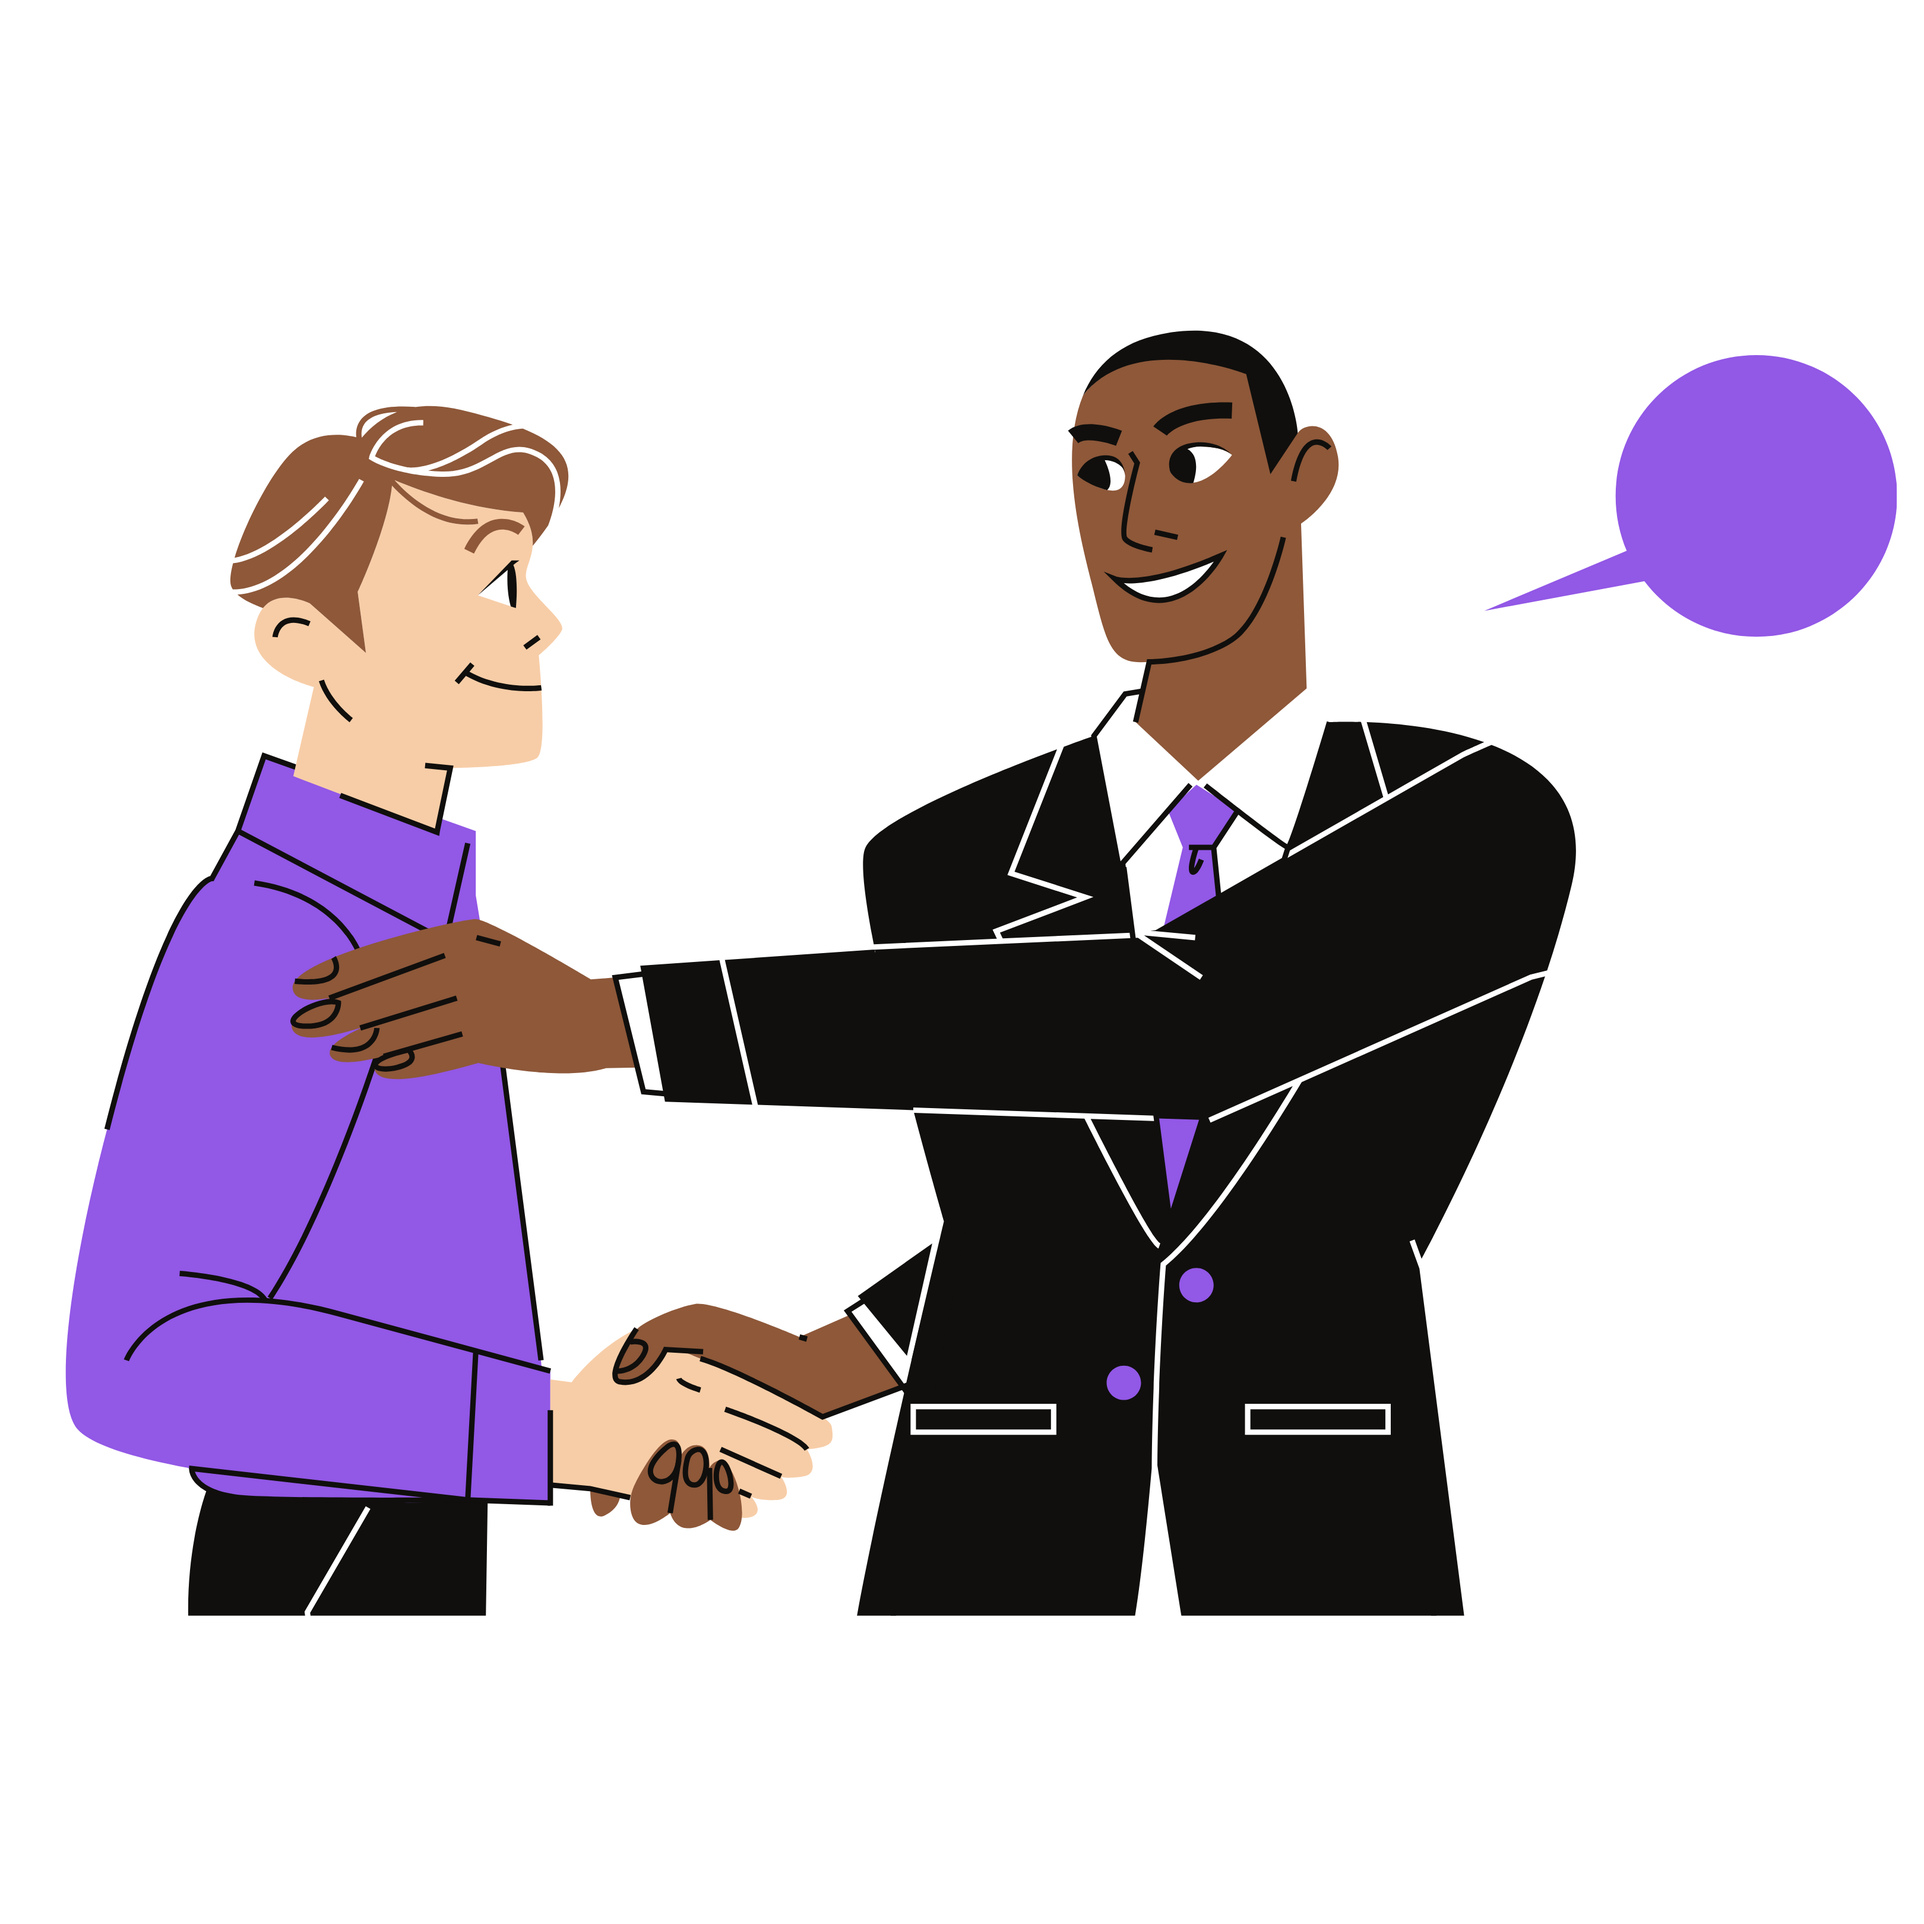
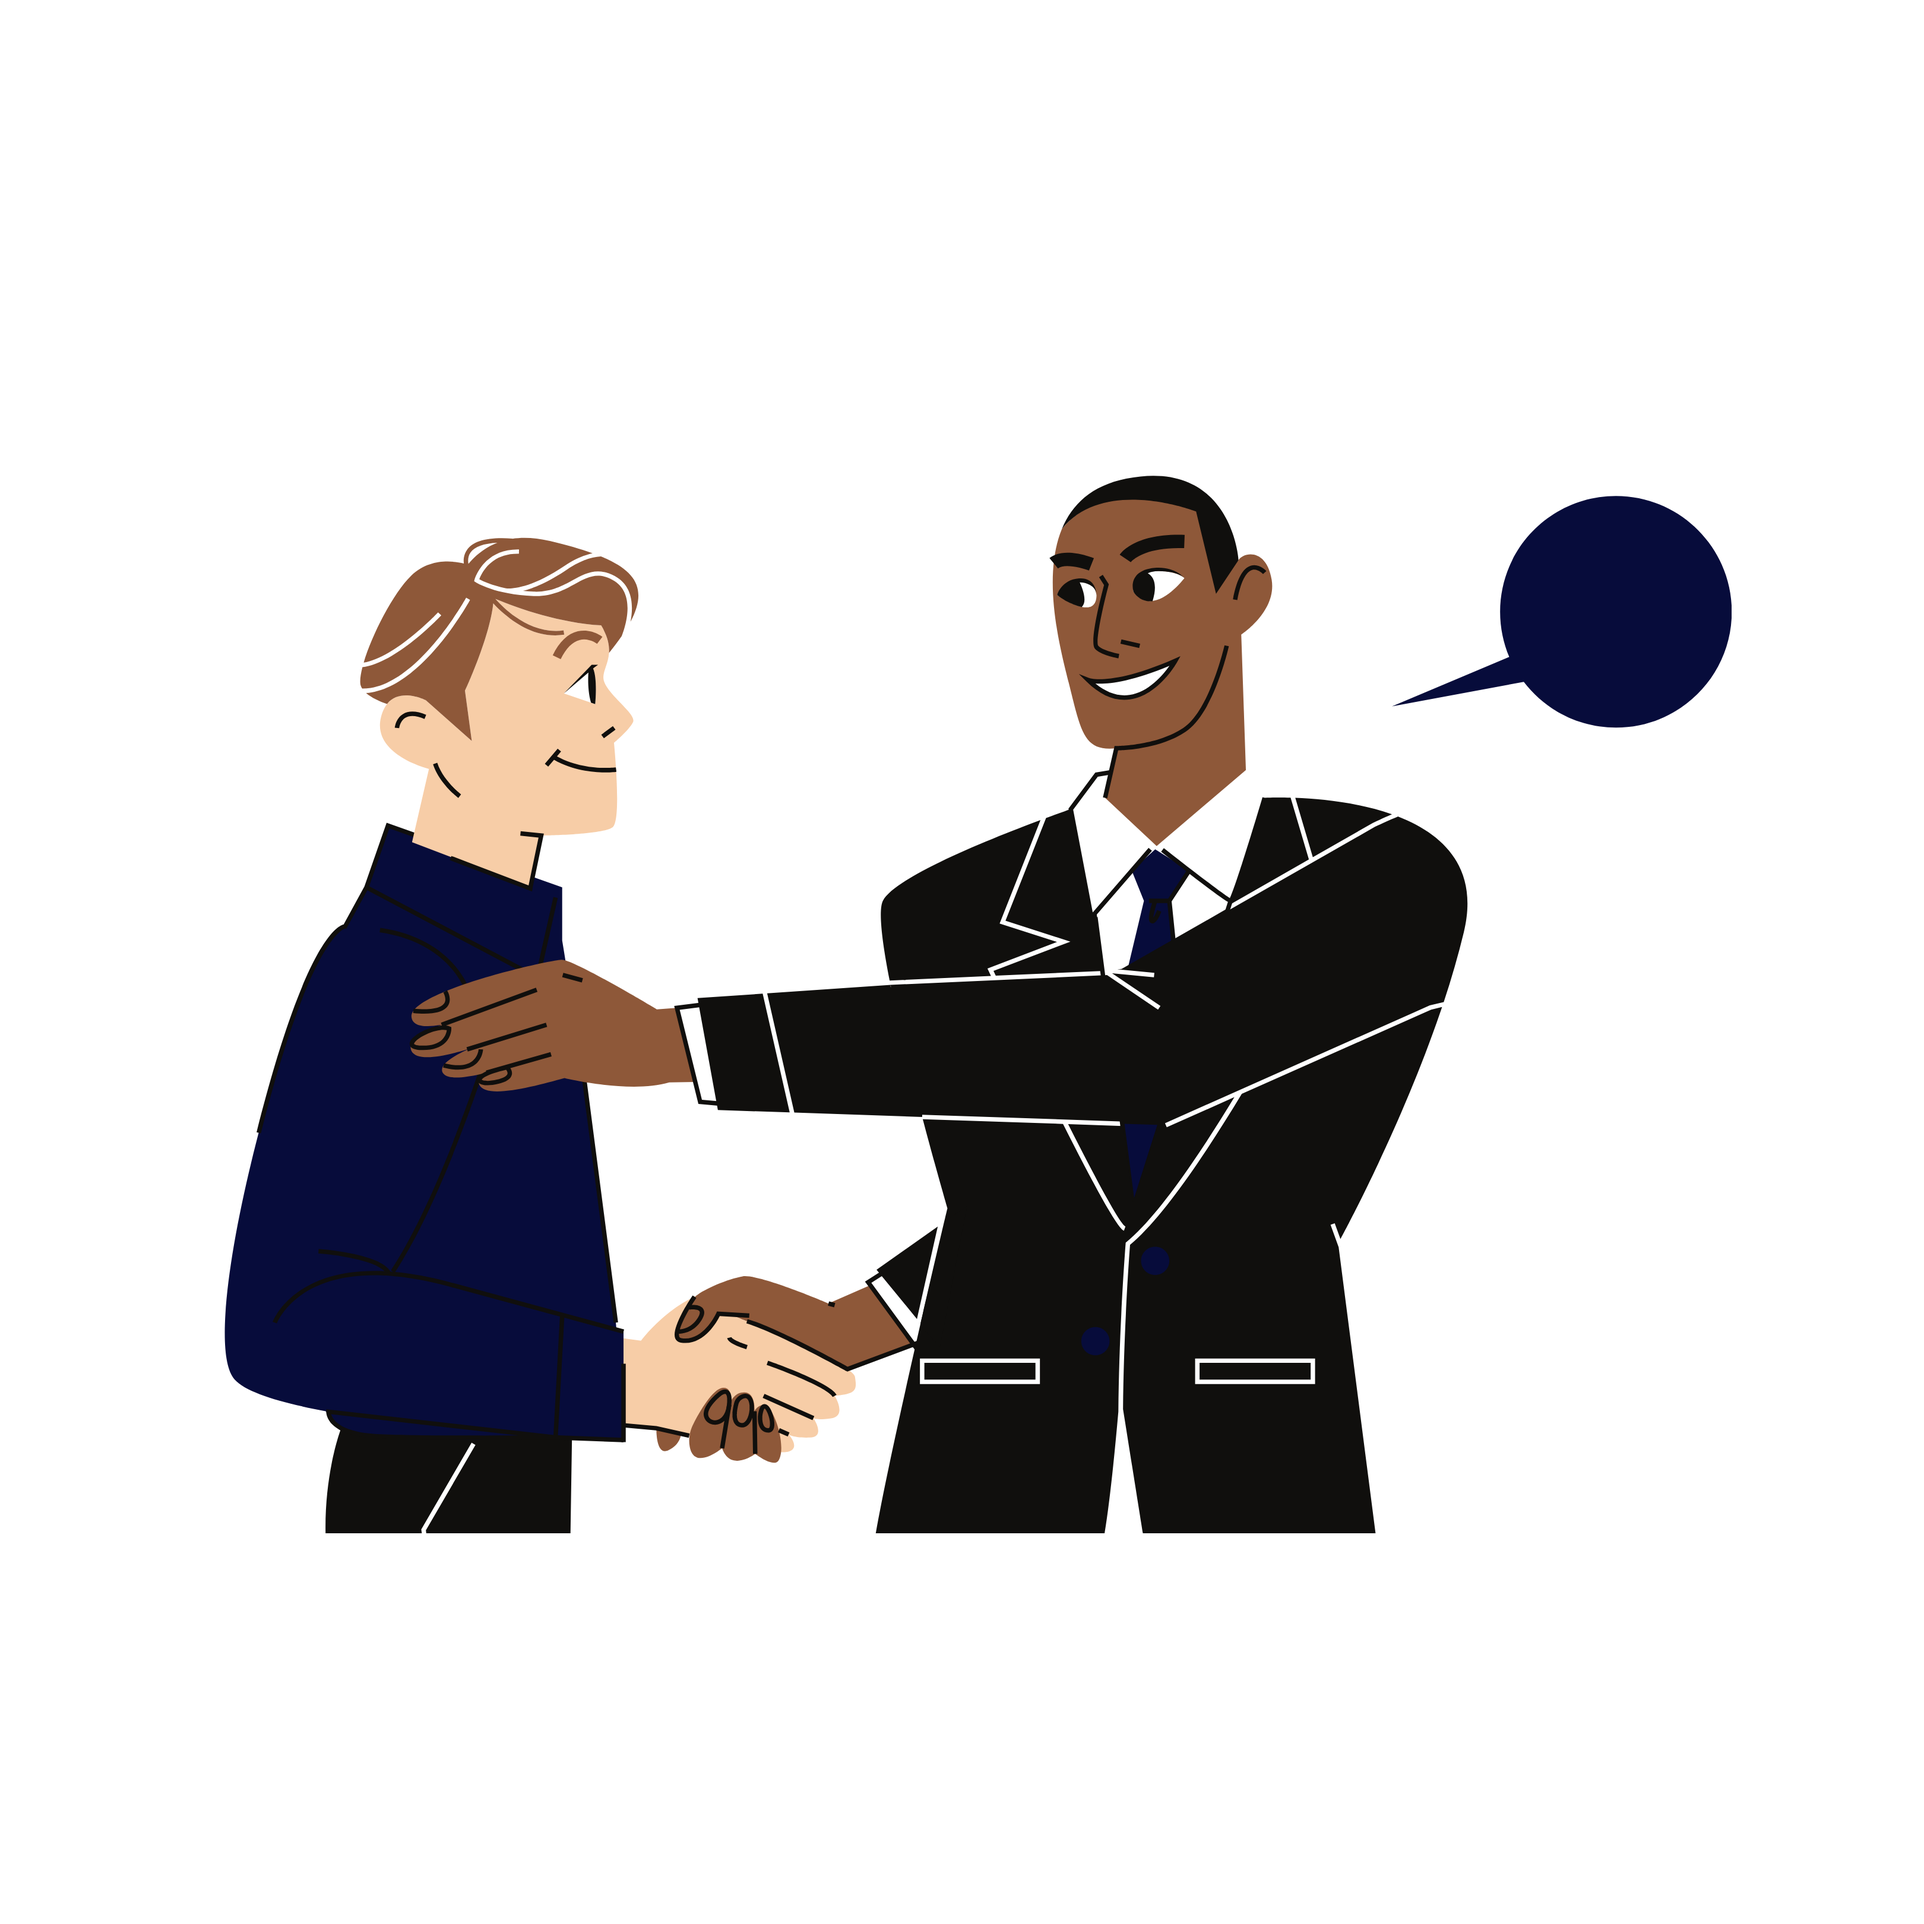
algumas cores ajustadas

Changed region(s): [[0.0312, 0.1559, 0.9975, 0.8417]]

diff --git a/src/Pages/Contratado/contratado.css b/src/Pages/Contratado/contratado.css
@@ -1,59 +1,18 @@
 body{
     font-family: Arial, Helvetica, sans-serif;
-}
-.header-contratado{
-    background-color: white;
-    height: 80px;
-    float: left;
-    width: 100%;
-}
-.logo{
-    float: left;
-    width: 150px;
-    margin-left: 17px;
-    margin-top: 15px;
-}
-nav{
-    float: right;
-    text-align: center;
-    width: 50%;
-    margin-bottom: 5px;
-    text-decoration: none;
-    height: 100%;
-}
-nav li {
-    display: inline;
-}
-nav ul li a{
-    margin-left: 3%;
-}
-nav a:link, :visited{
-    color: rgba(147, 85, 218, 0.924);
-    font-size: 32px;
-    display: inline-block;
-    text-decoration: none;
-}
-nav a:hover{
-    color: rgb(240, 169, 38);
-    background-color: white;
-}
-li{
-    margin-left: 5%;
-    color: rgba(147, 85, 218, 0.924);
-    background-color: white;
+    
 }
 .bloco1-contratado{
     height: auto;
     float: left;
     width: 97%;
     margin-left: 1.5%;
-    background-color: rgba(198, 158, 245, 0.924);
+    background-color: #070C3B;
     text-align: center;
-    border-radius: 20px;
 }
 .bloco1-contratado strong{
     font-size: 32px;
-    color: rgba(147, 85, 218, 0.924);
+    color: #070C3B;
 }
 .bloco2-contratado{
     width: 97%;
@@ -63,7 +22,7 @@ li{
     background-color: rgb(253, 253, 226);
     margin-top: 25px;
 }
-.esquerda{
+.esquerda-contratado{
     width: 50%;
     height: auto;
     float: left;
@@ -79,13 +38,13 @@ li{
 }
 .vaga-contratado strong{
     font-size: 30px;
-    color: rgba(147, 85, 218, 0.924);
+    color: #070C3B;
 }
 .salario-contratado{
     width: 35%;
     margin-left: 12%;
     text-align: center;
-    color: rgba(147, 85, 218, 0.924);
+    color: #070C3B;
     font-size: 20px;
     float: left;
     margin-bottom: 20px;
@@ -93,25 +52,25 @@ li{
 }
 .salario-contratado strong{
     font-size: 30px;
-    color: rgba(147, 85, 218, 0.924);
+    color: #070C3B;
 }
-.direita{
+.direita-contratado{
     width: 49%;
     height: auto;
     float: right;
 }
-.direita_bloco{
+.direita_bloco-contratado{
     float: right;
     width: 80%;
     height: auto;
 }
-.perfil{
+.perfil-contratado{
     float: left;
     width: 100%;
     margin-top: 20px;
     height: auto;
 }
-.perfil img{
+.perfil-contratado img{
     float: left;
     height: 115px;
     width: 115px;
@@ -126,22 +85,22 @@ li{
 }
 .direita_bloco strong{
     font-size: 22px;
-    color: rgba(147, 85, 218, 0.924)
+    color: #070C3B
 }
-.classificacao{
+.classificacao-contratado{
     float: left;
     width: 40%;
     height: 30px;
     margin-top: 15px;
     margin-left: 20px;
 }
-.local{
+.local-contratado{
     float: left;
     width: 100%;
     height: auto;
     margin-top: 30px;
 }
-.local img{
+.local-contratado img{
     height: 55px;
     width: 55px;
     float: left;
@@ -152,36 +111,36 @@ li{
     height: auto;
     margin-left: 20px;
 }
-.telefone{
+.telefone-contratado{
     width: 100%;
     float: left;
     height: auto;
     margin-top: 15px;
 }
-.numero{
+.numero-contratado{
     float: left;
     width: 60%;
     height: auto;
     margin-top: 22px;
     margin-left: 20px;
 }
-.telefone img{
+.telefone-contratado img{
     height: 55px;
     width: 55px;
     float: left;
 }
-.whatsapp{
+.whatsapp-contratado{
     width: 100%;
     height: auto;
     float: left;
     margin-top: 15px;
 }
-.whatsapp img{
+.whatsapp-contratado img{
     height: 55px;
     width: 55px;
     float: left;
 }
-.entre_em_contato{
+.entre_em_contato-contratado{
     width: 60%;
     height: auto;
     float: left;
@@ -213,12 +172,12 @@ li{
     margin-top: 10px;
 }
 .titulo-contratado strong{
-    color: rgba(147, 85, 218, 0.924);
+    color: #070C3B;
     font-size: 35px;
 }
 .texto-contratado{
     float: left;
-    color: rgba(147, 85, 218, 0.924);
+    color: #070C3B;
     font-size: 22px;
     margin-top: 15px;
 }
@@ -608,7 +567,7 @@ li{
         width: 95px;
         height: 95px;
     }
-    .telefone{
+    .telefone-contratado{
         margin-top: 10px;
     }
     .classificacao{
@@ -683,7 +642,7 @@ li{
         width: 90px;
         height: 90px;
     }
-    .telefone{
+    .telefone-contratado{
         margin-top: 10px;
     }
     .classificacao{
@@ -758,7 +717,7 @@ li{
         width: 90px;
         height: 90px;
     }
-    .telefone{
+    .telefone-contratado{
         margin-top: 10px;
     }
     .classificacao{
@@ -846,7 +805,7 @@ li{
         width: 90px;
         height: 90px;
     }
-    .telefone{
+    .telefone-contratado{
         margin-top: 10px;
     }
     .classificacao{
@@ -934,7 +893,7 @@ li{
         width: 90px;
         height: 90px;
     }
-    .telefone{
+    .telefone-contratado{
         margin-top: 10px;
     }
     .classificacao{
@@ -1022,7 +981,7 @@ li{
         width: 85px;
         height: 85px;
     }
-    .telefone{
+    .telefone-contratado{
         margin-top: 10px;
     }
     .classificacao{
@@ -1112,7 +1071,7 @@ li{
         width: 85px;
         height: 85px;
     }
-    .telefone{
+    .telefone-contratado{
         margin-top: 10px;
     }
     .classificacao{

diff --git a/src/Pages/Contratado/Contratado.jsx b/src/Pages/Contratado/Contratado.jsx
@@ -12,8 +12,8 @@ function Contratado (){
                <strong>FAZENDO UM BICO</strong>
             </div>
             <div class="bloco2-contratado">
-                <div class="esquerda">
-                    <div class="vaga">
+                <div class="esquerda-contratado">
+                    <div class="vaga-contratado">
                         <strong>Cortar a grama</strong><br /><br />
                         Procuro alguém com experiência para
                         cortar a grama do meu jardim. Já possuo as
@@ -34,22 +34,22 @@ function Contratado (){
                             </div>
                             <div class="classificacao-contratado"></div>
                         </div>
-                        <div class="local">
-                            <img src="" />
+                        <div class="local-contratado">
+                            <img src="7.png" />
                             <div class="localizacao-contratado">
                                     <strong>Colinas de Indaiatuba<br />
                                     Indaiatuba - SP </strong>
                             </div>
                         </div>
-                        <div class="telefone">
-                            <img src="" />
-                            <div class="numero">
+                        <div class="telefone-contratado">
+                            <img src="whats.png" />
+                            <div class="numero-contratado">
                                 <strong>(19) 99384-7556</strong>
                             </div>
                         </div>
-                        <div class="whatsapp">
-                            <img src="" />
-                            <div class="entre_em_contato">
+                        <div class="whatsapp-contratado">
+                            <img src="19.png" />
+                            <div class="entre_em_contato-contratado">
                                 <strong>Clique aqui e entre em contato
                                         pelo WhatsAppp! </strong>
                             </div>
@@ -58,7 +58,7 @@ function Contratado (){
                 </div>
             </div>
             <div class="bloco3-contratado">
-                <img src="" />
+                <img src="19.png" />
                 <div class="recado">
                     <div class="titulo-contratado">
                         <strong>Comece a trabalhar agora!</strong>

diff --git a/src/Pages/Anunciar/anunciar.scss b/src/Pages/Anunciar/anunciar.scss
@@ -139,7 +139,7 @@
         margin-left: 4%;
         margin-top: 120px;
     }
-    .botao-anunciar{
+    .botao_voltar-anunciar{
         float: left;
         width: 80%;
         margin-left: 10%;
@@ -148,14 +148,29 @@
         text-align: center;
         background-color: #070C3B;
         color: white;
-        padding-top: 7px;
+        padding-top: 9px;
         text-decoration: none;
         margin-top: 25px;
         border-radius: 20px;
     }
-    .botao-anunciar:hover{
+    .botao_salvar-anunciar{
+        float: left;
+        width: 80%;
+        margin-left: 10%;
+        height: 65px;
+        font-size: 30px;
+        text-align: center;
+        background-color: #070C3B;
+        color: white;
+        padding-top: 0px;
+        text-decoration: none;
+        margin-top: 25px;
+        border-radius: 20px;
+    }
+    .botao_salvar-anunciar:hover,.botao_voltar-anunciar:hover{
         background-color: rgb(255, 215, 104);
         color: white;
+        border: 0px;
     }
     .vaga_form{
         float: left;

diff --git a/src/Pages/Anunciar/Anunciar.jsx b/src/Pages/Anunciar/Anunciar.jsx
@@ -135,10 +135,10 @@ function Anunciar (){
                     </div>
                 </div>
                 <div className="botoes-anunciar">
-                    <Link to="/vagas" ><a className="botao-anunciar">
+                    <Link to="/vagas" ><a className="botao_voltar-anunciar">
                         <strong>VOLTAR</strong>
                     </a></Link>
-                    <button className="botao-anunciar" onClick={handleSubmit}>
+                    <button className="botao_salvar-anunciar" onClick={handleSubmit}>
                         <strong>SALVAR</strong>
                     </button>
                 </div>

diff --git a/src/Pages/Registrar/index.jsx b/src/Pages/Registrar/index.jsx
@@ -200,7 +200,7 @@ export default function Register() {
 
                     <Image src={ Img11 } width={'70%'} className={'d-flex mx-auto'} />
                     <div className={'d-flex justify-content-end px-5'}>
-                        <button type={'submit'}>Próximo</button>
+                        <button type={'submit'}>Concli</button>
                     </div>
 
                 </div>
